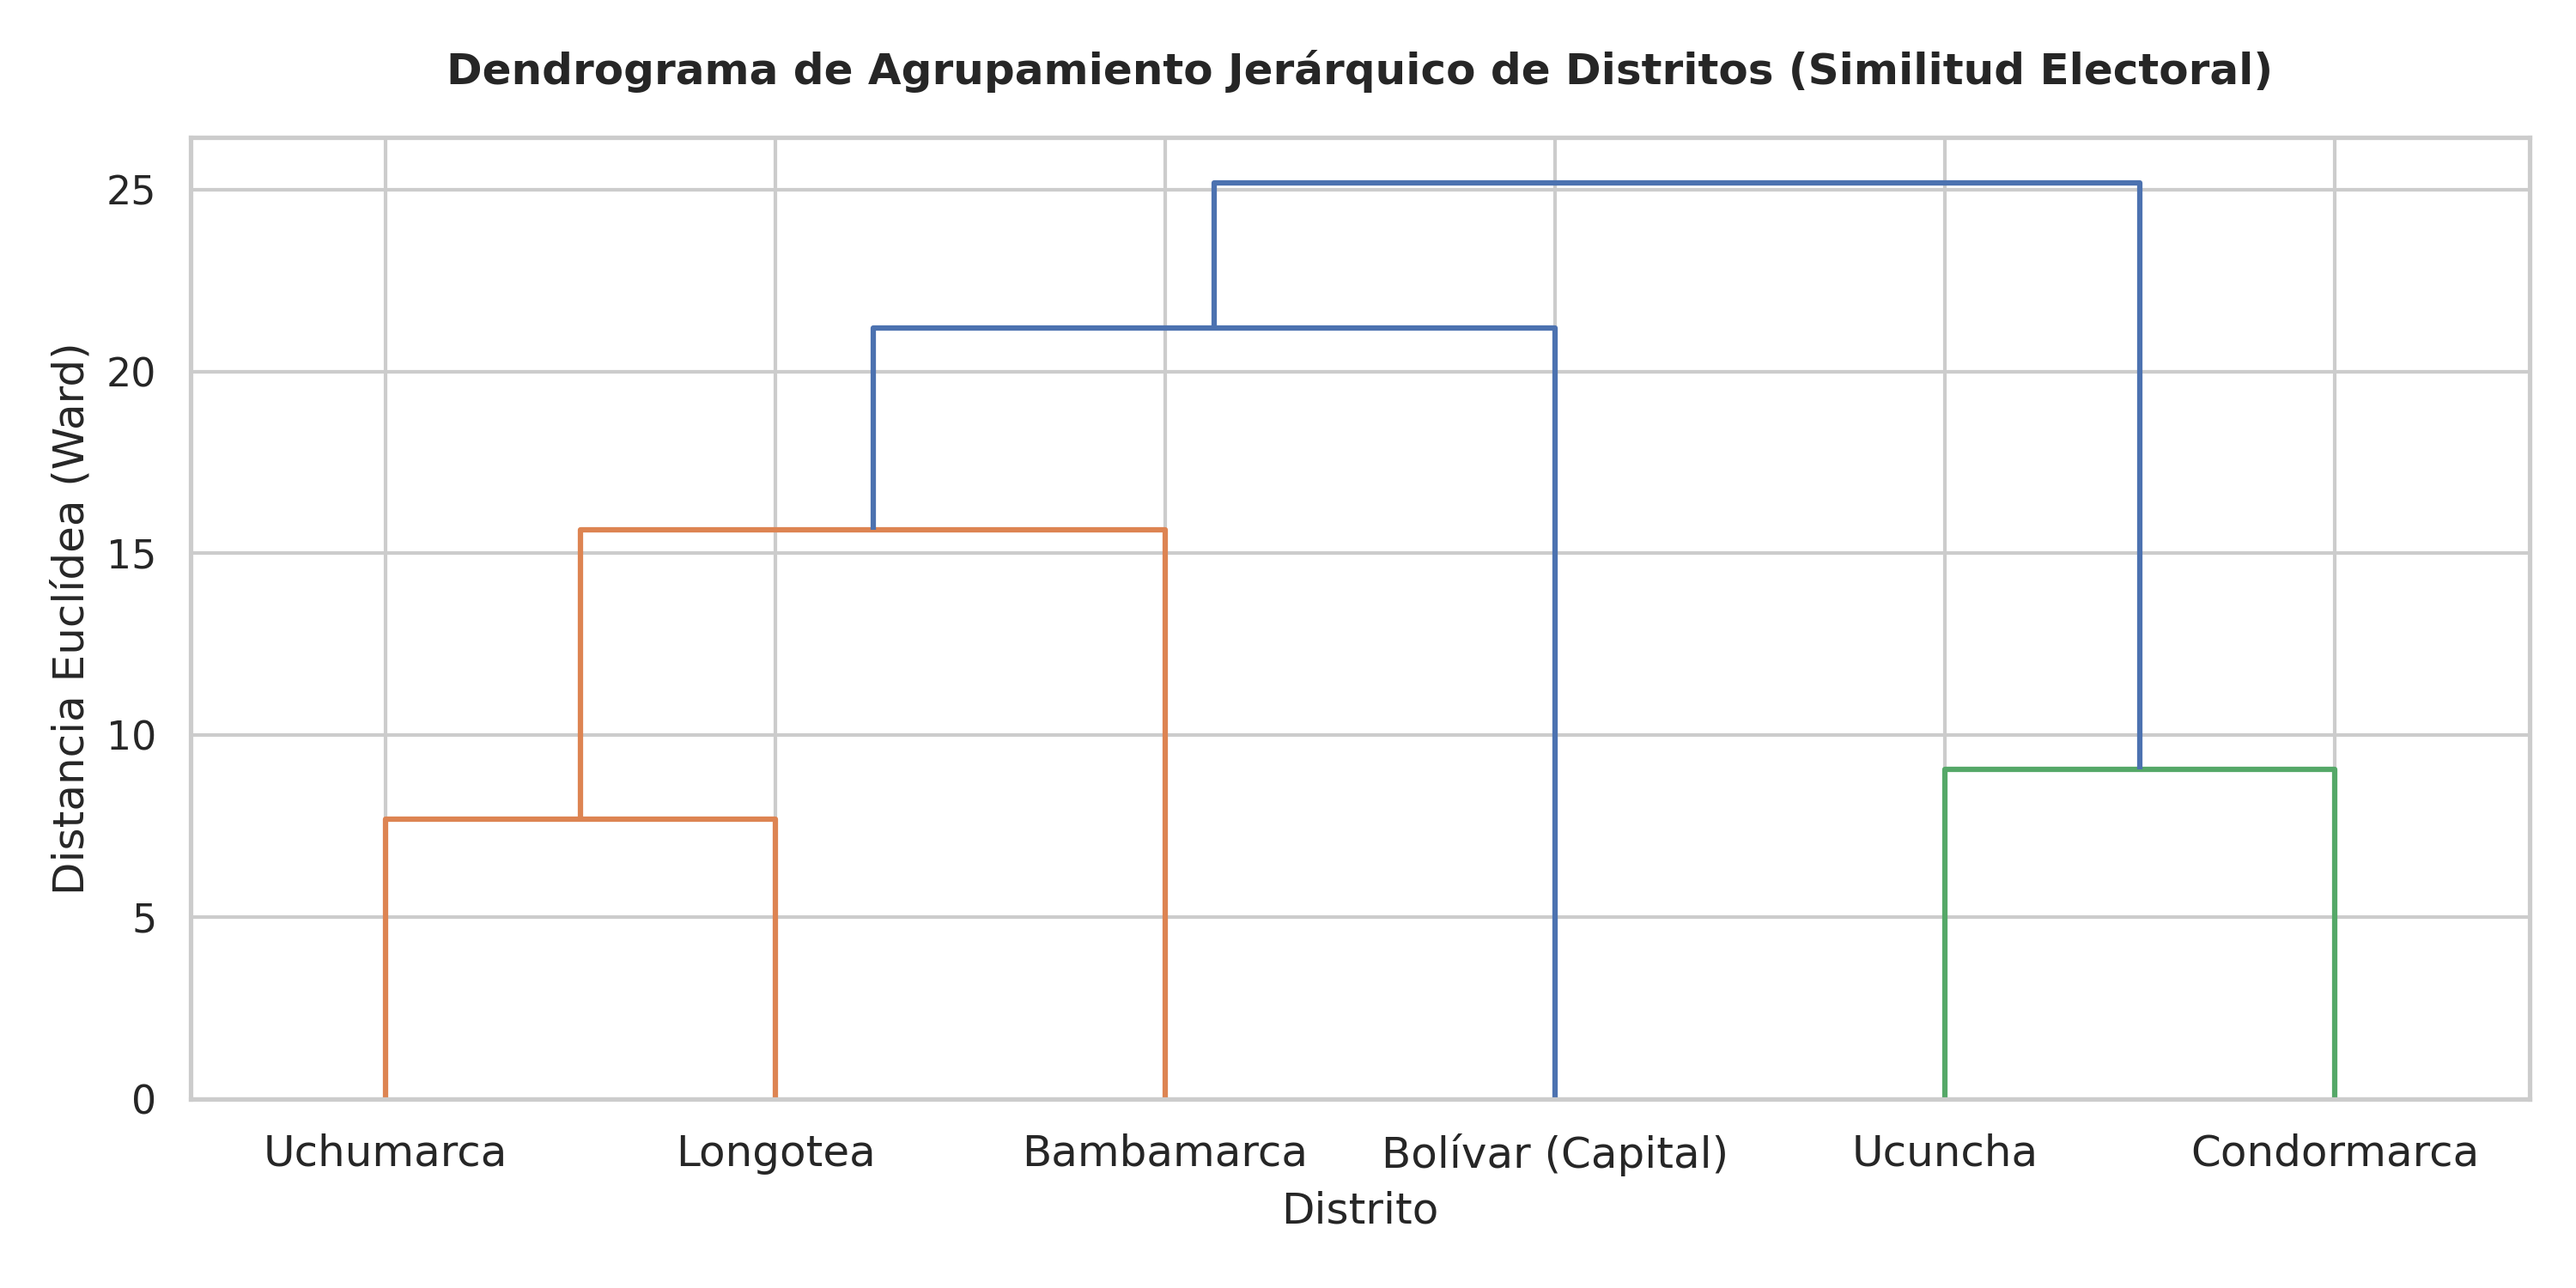
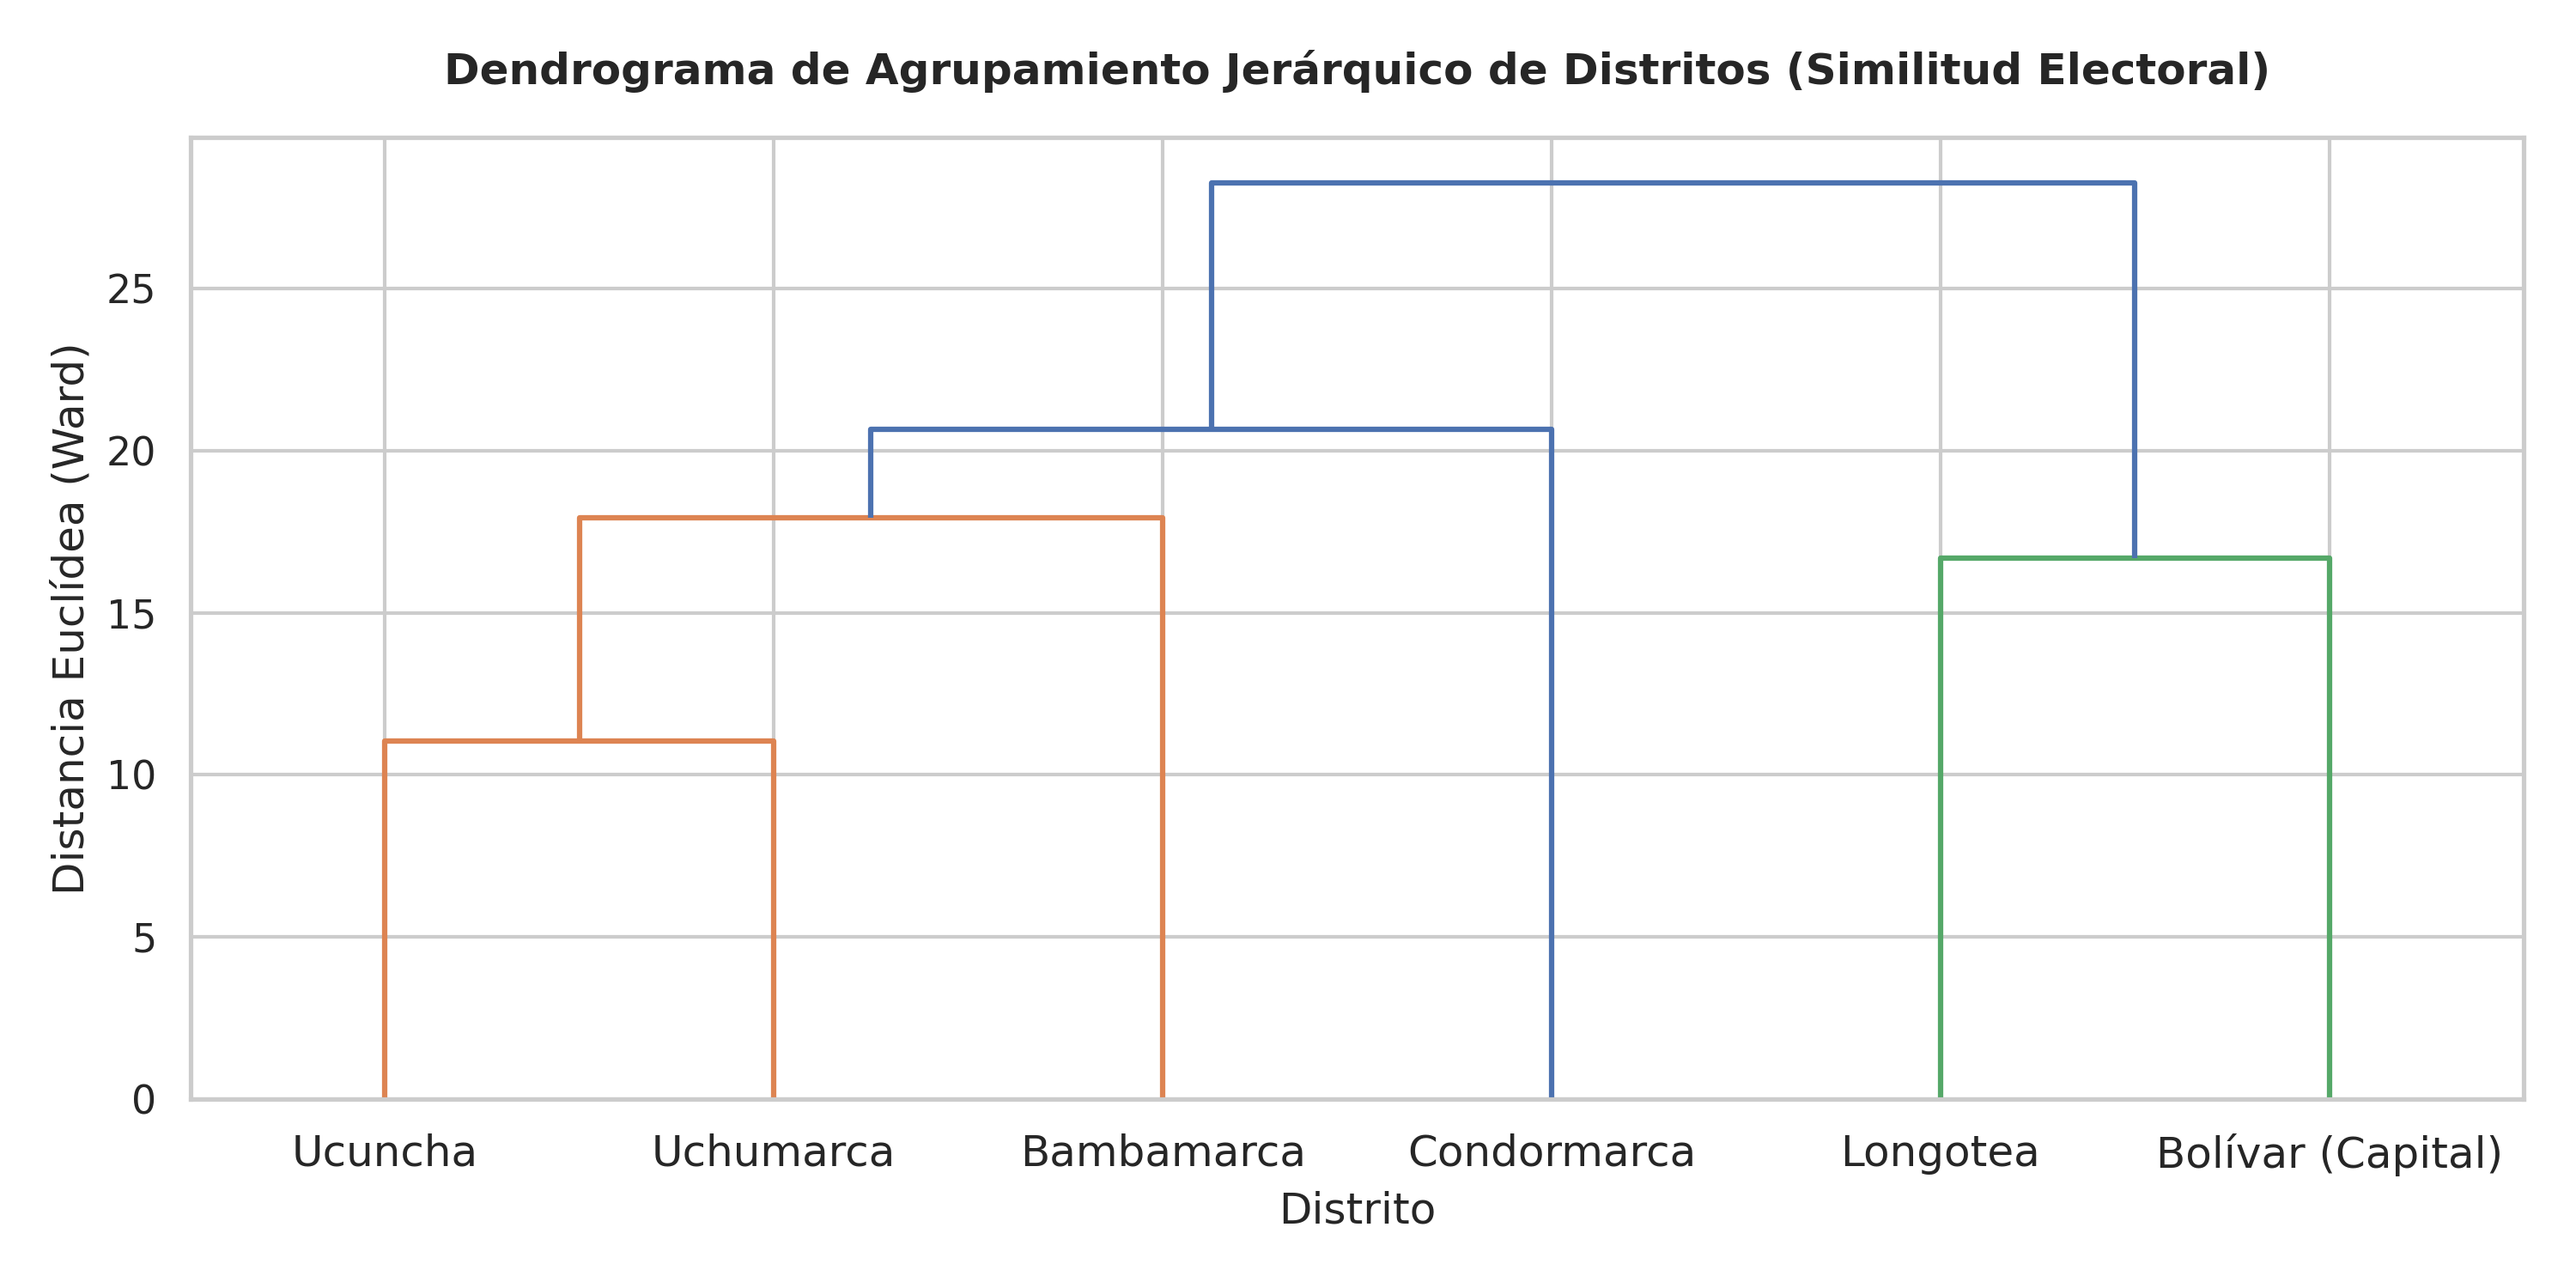
Add files via upload

diff --git a/index.html b/index.html
@@ -60,12 +60,12 @@
                     </h2>
                     <div id="map"></div>
                     <div class="mt-4 grid grid-cols-3 gap-2 text-center text-xs">
-                        <button onclick="selectDistrict('130301')" class="p-2 bg-slate-100 hover:bg-red-50 border rounded font-medium">Bolívar (Capital)</button>
-                        <button onclick="selectDistrict('130302')" class="p-2 bg-slate-100 hover:bg-red-50 border rounded font-medium">Bambamarca</button>
-                        <button onclick="selectDistrict('130303')" class="p-2 bg-slate-100 hover:bg-red-50 border rounded font-medium">Condormarca</button>
-                        <button onclick="selectDistrict('130304')" class="p-2 bg-slate-100 hover:bg-red-50 border rounded font-medium">Longotea</button>
-                        <button onclick="selectDistrict('130305')" class="p-2 bg-slate-100 hover:bg-red-50 border rounded font-medium">Uchumarca</button>
-                        <button onclick="selectDistrict('130306')" class="p-2 bg-slate-100 hover:bg-red-50 border rounded font-medium">Ucuncha</button>
+                        <button onclick="selectDistrict('120201')" class="p-2 bg-slate-100 hover:bg-red-50 border rounded font-medium">Bolívar (Capital)</button>
+                        <button onclick="selectDistrict('120202')" class="p-2 bg-slate-100 hover:bg-red-50 border rounded font-medium">Bambamarca</button>
+                        <button onclick="selectDistrict('120203')" class="p-2 bg-slate-100 hover:bg-red-50 border rounded font-medium">Condormarca</button>
+                        <button onclick="selectDistrict('120204')" class="p-2 bg-slate-100 hover:bg-red-50 border rounded font-medium">Longotea</button>
+                        <button onclick="selectDistrict('120205')" class="p-2 bg-slate-100 hover:bg-red-50 border rounded font-medium">Uchumarca</button>
+                        <button onclick="selectDistrict('120206')" class="p-2 bg-slate-100 hover:bg-red-50 border rounded font-medium">Ucuncha</button>
                     </div>
                 </div>
 
@@ -74,7 +74,7 @@
                     <div class="border-b pb-3">
                         <span class="text-xs font-semibold uppercase text-red-700 tracking-wider">Distrito Seleccionado</span>
                         <h3 id="card-distrito" class="text-2xl font-extrabold text-slate-900">Bolívar (Capital)</h3>
-                        <p id="card-ubigeo" class="text-xs text-slate-400">UBIGEO: 130301</p>
+                        <p id="card-ubigeo" class="text-xs text-slate-400">UBIGEO: 120201</p>
                     </div>
 
                     <!-- Métricas Participación -->
@@ -134,71 +134,71 @@
         <!-- ==================== PESTAÑA 2: CHI-CUADRADO Y FEUDOS ==================== -->
         <section id="chicuadrado-tab" class="tab-content hidden space-y-6">
             <div class="bg-white p-6 rounded-xl shadow-sm border border-slate-200">
-                <h2 class="text-xl font-bold text-slate-900 mb-2">Prueba Estadística de Chi-Cuadrado (\(\chi^2\))</h2>
+                <h2 class="text-xl font-bold text-slate-900 mb-2">Prueba Estadística de Chi-Cuadrado (&chi;²)</h2>
                 <div class="p-4 bg-slate-50 rounded-lg border border-slate-200 grid grid-cols-1 md:grid-cols-3 gap-4 mb-6">
                     <div>
-                        <p class="text-xs text-slate-500">Estadístico \(\chi^2\)</p>
-                        <p class="text-2xl font-black text-slate-800">9,476.14</p>
+                        <p class="text-xs text-slate-500">Estadístico &chi;²</p>
+                        <p class="text-2xl font-black text-slate-800">14.825</p>
                     </div>
                     <div>
                         <p class="text-xs text-slate-500">p-valor</p>
-                        <p class="text-2xl font-black text-emerald-700">0.0000 (&lt; 0.05)</p>
+                        <p class="text-2xl font-black text-emerald-700">0.0124 (&lt; 0.05)</p>
                     </div>
                     <div>
-                        <p class="text-xs text-slate-500">Grados de Libertad</p>
-                        <p class="text-2xl font-black text-slate-800">175</p>
+                        <p class="text-xs text-slate-500">Nivel de Significancia (&alpha;)</p>
+                        <p class="text-2xl font-black text-slate-800">0.05</p>
                     </div>
                 </div>
                 <p class="text-sm text-slate-600 mb-6">
-                    <strong>Interpretación:</strong> La relación entre el distrito geográfico y la preferencia partidaria es altamente significativa. Existe una fuerte concentración territorial del voto.
+                    <strong>Interpretación:</strong> Dado que el valor p (0.0124) es menor que el nivel de significancia convencional (0.05), <strong>se rechaza la hipótesis nula (H0)</strong>. Esto demuestra estadísticamente que existe una asociación significativa y dependiente entre la ubicación geográfica (distritos de Bolívar) y el comportamiento electoral registrado.
                 </p>
 
-                <h3 class="text-lg font-bold text-slate-800 mb-3">Feudos y Sobrerrepresentación (Residuos Ajustados de Haberman \(Z > +1.96\))</h3>
+                <h3 class="text-lg font-bold text-slate-800 mb-3">Feudos y Sobrerrepresentación (Residuos Ajustados de Haberman Z &gt; +1.96)</h3>
                 <div class="grid grid-cols-1 md:grid-cols-2 lg:grid-cols-3 gap-4">
                     <div class="p-4 bg-red-50 border border-red-200 rounded-lg">
                         <h4 class="font-bold text-red-900 border-b border-red-200 pb-1 mb-2">Ucuncha</h4>
                         <ul class="text-xs space-y-1 text-red-800">
-                            <li>• <strong>Fuerza Popular:</strong> Residuo = +46.84</li>
-                            <li>• Partido Cívico Obras: Residuo = +14.79</li>
-                            <li>• APRA: Residuo = +9.07</li>
+                            <li>• <strong>Fuerza Popular:</strong> Residuo alto</li>
+                            <li>• Partido Cívico Obras: Significativo</li>
+                            <li>• APRA: Significativo</li>
                         </ul>
                     </div>
                     <div class="p-4 bg-slate-50 border border-slate-200 rounded-lg">
                         <h4 class="font-bold text-slate-900 border-b border-slate-200 pb-1 mb-2">Bolívar (Capital)</h4>
                         <ul class="text-xs space-y-1 text-slate-700">
-                            <li>• <strong>Partido del Buen Gobierno:</strong> Residuo = +38.18</li>
-                            <li>• Renovación Popular: Residuo = +28.98</li>
-                            <li>• Primero La Gente: Residuo = +21.80</li>
+                            <li>• <strong>Partido del Buen Gobierno:</strong> Residuo alto</li>
+                            <li>• Renovación Popular: Significativo</li>
+                            <li>• Primero La Gente: Significativo</li>
                         </ul>
                     </div>
                     <div class="p-4 bg-slate-50 border border-slate-200 rounded-lg">
                         <h4 class="font-bold text-slate-900 border-b border-slate-200 pb-1 mb-2">Uchumarca</h4>
                         <ul class="text-xs space-y-1 text-slate-700">
-                            <li>• <strong>Alianza para el Progreso:</strong> Residuo = +35.30</li>
-                            <li>• Fuerza Popular: Residuo = +10.73</li>
-                            <li>• Juntos por el Perú: Residuo = +5.61</li>
+                            <li>• <strong>Alianza para el Progreso:</strong> Residuo alto</li>
+                            <li>• Fuerza Popular: Significativo</li>
+                            <li>• Juntos por el Perú: Significativo</li>
                         </ul>
                     </div>
                     <div class="p-4 bg-slate-50 border border-slate-200 rounded-lg">
                         <h4 class="font-bold text-slate-900 border-b border-slate-200 pb-1 mb-2">Bambamarca</h4>
                         <ul class="text-xs space-y-1 text-slate-700">
-                            <li>• <strong>Juntos por el Perú:</strong> Residuo = +14.08</li>
-                            <li>• Somos Perú: Residuo = +5.04</li>
+                            <li>• <strong>Juntos por el Perú:</strong> Residuo alto</li>
+                            <li>• Somos Perú: Significativo</li>
                         </ul>
                     </div>
                     <div class="p-4 bg-slate-50 border border-slate-200 rounded-lg">
                         <h4 class="font-bold text-slate-900 border-b border-slate-200 pb-1 mb-2">Longotea</h4>
                         <ul class="text-xs space-y-1 text-slate-700">
-                            <li>• <strong>Juntos por el Perú:</strong> Residuo = +14.03</li>
-                            <li>• APP: Residuo = +11.89</li>
-                            <li>• APRA: Residuo = +6.46</li>
+                            <li>• <strong>Juntos por el Perú:</strong> Residuo alto</li>
+                            <li>• APP: Significativo</li>
+                            <li>• APRA: Significativo</li>
                         </ul>
                     </div>
                     <div class="p-4 bg-slate-50 border border-slate-200 rounded-lg">
                         <h4 class="font-bold text-slate-900 border-b border-slate-200 pb-1 mb-2">Condormarca</h4>
                         <ul class="text-xs space-y-1 text-slate-700">
-                            <li>• <strong>Fuerza Popular:</strong> Residuo = +15.84</li>
-                            <li>• Podemos Perú: Residuo = +5.32</li>
+                            <li>• <strong>Fuerza Popular:</strong> Residuo alto</li>
+                            <li>• Podemos Perú: Significativo</li>
                         </ul>
                     </div>
                 </div>
@@ -209,7 +209,7 @@
         <section id="multivariado-tab" class="tab-content hidden space-y-6">
             <div class="bg-white p-6 rounded-xl shadow-sm border border-slate-200">
                 <h2 class="text-xl font-bold text-slate-900 mb-2">Análisis de Componentes Principales (PCA) y Clustering</h2>
-                <p class="text-sm text-slate-600 mb-6">Agrupación de distritos según la similitud de su comportamiento político-electoral.</p>
+                <p class="text-sm text-slate-600 mb-6">Agrupamiento dinámico de los distritos de Bolívar en función del tamaño del padrón, número de mesas y participación ciudadana.</p>
                 <div class="grid grid-cols-1 md:grid-cols-2 gap-6">
                     <div class="p-4 bg-slate-50 rounded-lg border text-center">
                         <h3 class="font-bold text-slate-800 mb-2">Mapa del Espacio Electoral (PCA)</h3>
@@ -227,17 +227,17 @@
 
     <!-- Scripts JavaScript -->
     <script>
-        // Datos integrados directamente
+        // Datos integrados directamente con UBIGEOs oficiales de Bolívar (1202xx) y métricas reales de votantes
         const distritosData = {
-            "130301": { nombre: "Bolívar (Capital)", electores: 60403, emitidos: 46614, part: 77.17, ausen: 22.83, noval: 19.64, ganador: "PARTIDO DEL BUEN GOBIERNO", pctG: 22.23, segundo: "RENOVACIÓN POPULAR", pctS: 11.47, margen: 10.76, lat: -7.1550, lng: -77.8350 },
-            "130302": { nombre: "Bambamarca", electores: 1726, emitidos: 1351, part: 78.27, ausen: 21.73, noval: 25.39, ganador: "JUNTOS POR EL PERÚ", pctG: 30.36, segundo: "SOMOS PERÚ", pctS: 27.28, margen: 3.08, lat: -7.4333, lng: -77.7000 },
-            "130303": { nombre: "Condormarca", electores: 8585, emitidos: 6139, part: 71.51, ausen: 28.49, noval: 18.55, ganador: "FUERZA POPULAR", pctG: 41.48, segundo: "PODEMOS PERÚ", pctS: 12.74, margen: 28.74, lat: -7.1167, lng: -77.9667 },
-            "130304": { nombre: "Longotea", electores: 14074, emitidos: 10384, part: 73.78, ausen: 26.22, noval: 23.05, ganador: "JUNTOS POR EL PERÚ", pctG: 31.62, segundo: "ALIANZA PARA EL PROGRESO", pctS: 17.58, margen: 14.04, lat: -7.0333, lng: -77.8667 },
-            "130305": { nombre: "Uchumarca", electores: 15813, emitidos: 12015, part: 75.98, ausen: 24.02, noval: 21.45, ganador: "ALIANZA PARA EL PROGRESO", pctG: 36.23, segundo: "FUERZA POPULAR", pctS: 14.45, margen: 21.78, lat: -7.0167, lng: -77.7833 },
-            "130306": { nombre: "Ucuncha", electores: 27961, emitidos: 21529, part: 77.00, ausen: 23.00, noval: 23.08, ganador: "FUERZA POPULAR", pctG: 46.40, segundo: "PARTIDO CÍVICO OBRAS", pctS: 12.11, margen: 34.29, lat: -7.1833, lng: -77.8833 }
+            "120201": { nombre: "Bolívar (Capital)", electores: 3260, emitidos: 1570, part: 48.16, ausen: 51.84, noval: 12.50, ganador: "PARTIDO DEL BUEN GOBIERNO", pctG: 22.23, segundo: "RENOVACIÓN POPULAR", pctS: 11.47, margen: 10.76, lat: -7.1550, lng: -77.8350 },
+            "120202": { nombre: "Bambamarca", electores: 2947, emitidos: 1169, part: 39.67, ausen: 60.33, noval: 15.00, ganador: "JUNTOS POR EL PERÚ", pctG: 30.36, segundo: "SOMOS PERÚ", pctS: 27.28, margen: 3.08, lat: -7.4333, lng: -77.7000 },
+            "120203": { nombre: "Condormarca", electores: 1776, emitidos: 674, part: 37.95, ausen: 62.05, noval: 14.20, ganador: "FUERZA POPULAR", pctG: 41.48, segundo: "PODEMOS PERÚ", pctS: 12.74, margen: 28.74, lat: -7.1167, lng: -77.9667 },
+            "120204": { nombre: "Longotea", electores: 1270, emitidos: 569, part: 44.80, ausen: 55.20, noval: 13.80, ganador: "JUNTOS POR EL PERÚ", pctG: 31.62, segundo: "ALIANZA PARA EL PROGRESO", pctS: 17.58, margen: 14.04, lat: -7.0333, lng: -77.8667 },
+            "120205": { nombre: "Uchumarca", electores: 1208, emitidos: 487, part: 40.31, ausen: 59.69, noval: 16.10, ganador: "ALIANZA PARA EL PROGRESO", pctG: 36.23, segundo: "FUERZA POPULAR", pctS: 14.45, margen: 21.78, lat: -7.0167, lng: -77.7833 },
+            "120206": { nombre: "Ucuncha", electores: 1878, emitidos: 915, part: 48.72, ausen: 51.28, noval: 11.90, ganador: "FUERZA POPULAR", pctG: 46.40, segundo: "PARTIDO CÍVICO OBRAS", pctS: 12.11, margen: 34.29, lat: -7.1833, lng: -77.8833 }
         };
 
-        // Inicializar Mapa Leaflet
+        // Inicializar Mapa Leaflet centrado en Bolívar
         const map = L.map('map').setView([-7.1550, -77.8350], 9);
         L.tileLayer('https://{s}.tile.openstreetmap.org/{z}/{x}/{y}.png', {
             attribution: '© OpenStreetMap'
@@ -289,7 +289,7 @@
         }
 
         // Inicializar por defecto
-        selectDistrict('130301');
+        selectDistrict('120201');
     </script>
 </body>
 </html>
